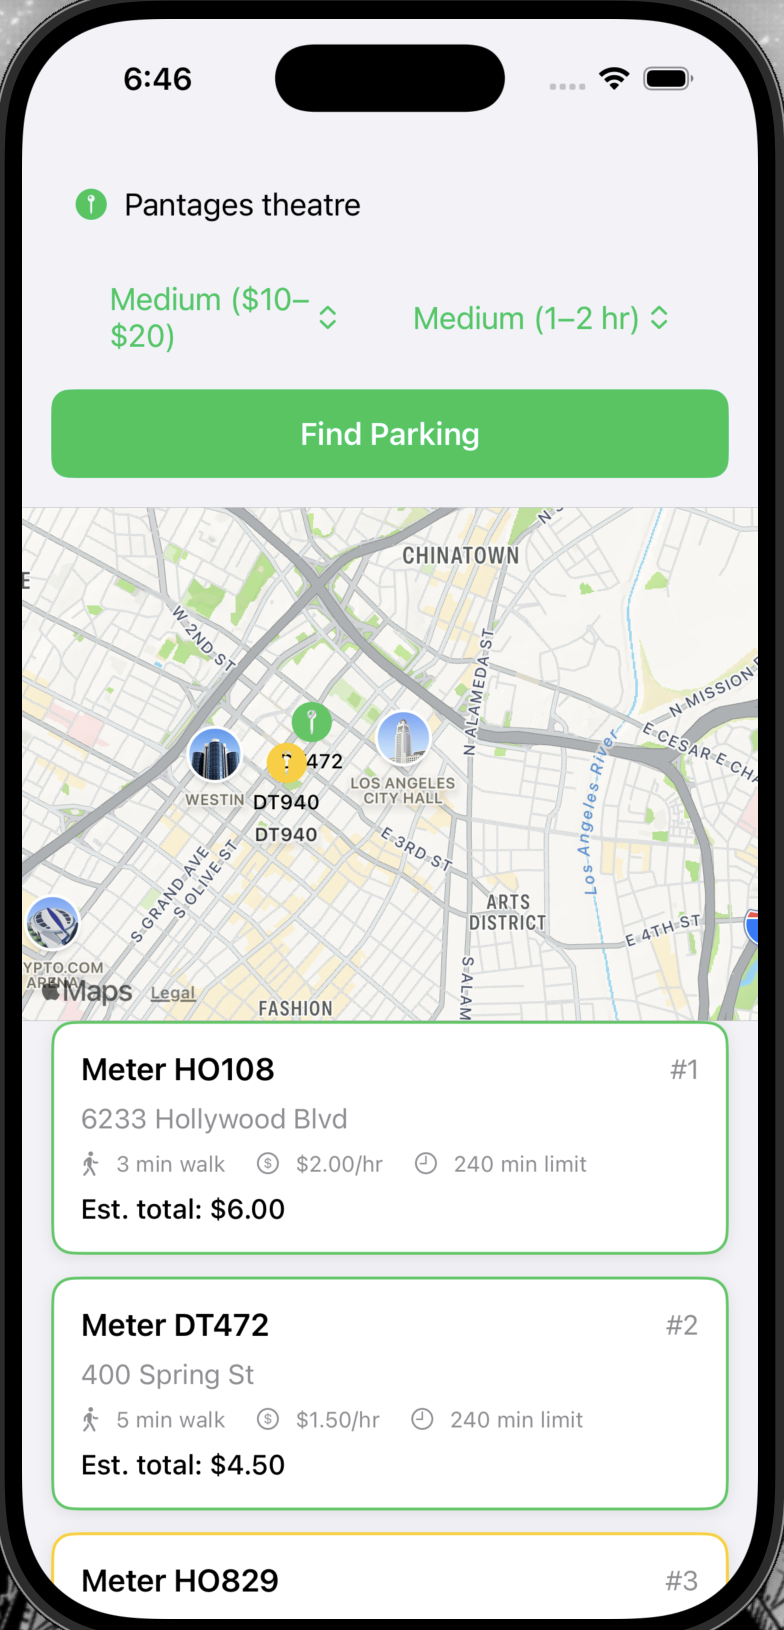
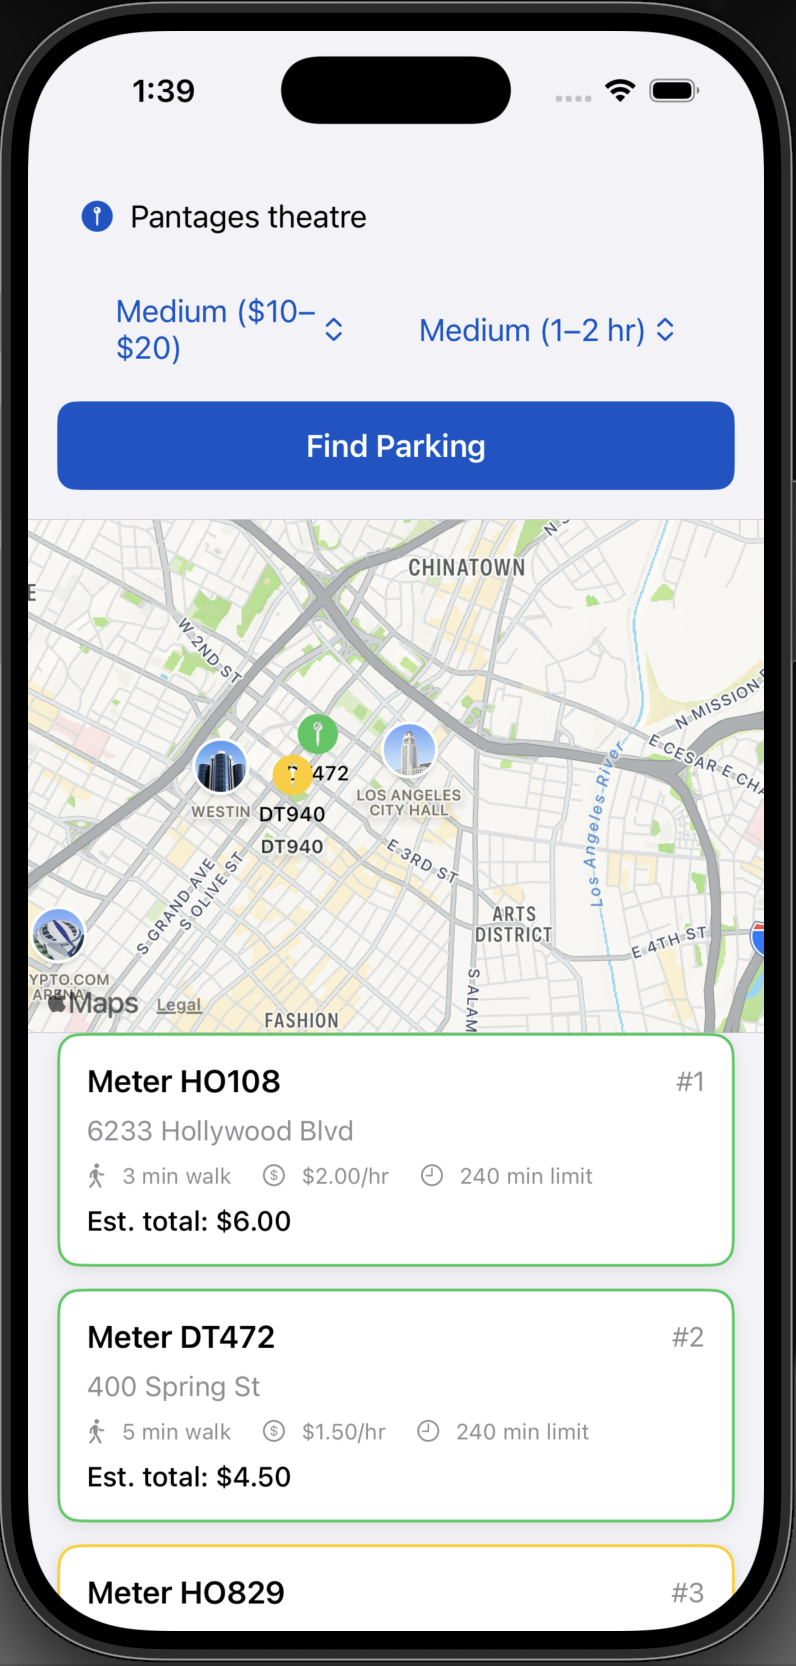
Final README edits and changing color of UI from green to blue

diff --git a/Frontend/Utils/Theme.swift b/Frontend/Utils/Theme.swift
@@ -1,15 +1,15 @@
 import SwiftUI
 
 enum Theme {
-    // Uber-inspired palette
+    // App palette
     static let primary = Color.black
     static let primaryInverse = Color.white
-    static let accent = Color(red: 0.0, green: 0.78, blue: 0.33)  // Uber green
+    static let accent = Color(red: 0.0, green: 0.33, blue: 0.78)  // accent blue
     static let secondaryText = Color.gray
     static let cardBackground = Color.white
     static let cardShadow = Color.black.opacity(0.08)
     static let divider = Color.gray.opacity(0.3)
     
     // Map / pins
-    static let pinHighlight = Color(red: 0.0, green: 0.78, blue: 0.33)
+    static let pinHighlight = Color(red: 0.0, green: 0.33, blue: 0.78)  // accent blue
 }

diff --git a/Frontend/README.md b/Frontend/README.md
@@ -172,6 +172,5 @@ Once the project is successfully opened, there should be a play button that you 
 
 ![User Interface Screenshot](frontend_example.png)
 
-
 ---
 `AI Acknowledgement: README text was written with assist of LLMs.`
